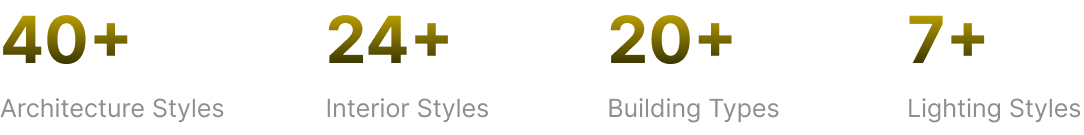
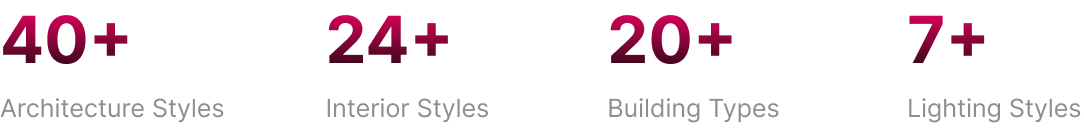
pink

diff --git a/app/page.tsx b/app/page.tsx
@@ -27,7 +27,7 @@ export default function HomePage() {
               <div className="flex justify-center pt-5 space-y-10">
                 <div>
                   <div className="flex justify-center pb-5">
-                    <span className="text-yellow-600 font-semibold">
+                    <span className="text-[#f22e61] font-semibold">
                       AI-POWERED HOME DESIGN TOOL
                     </span>
                   </div>
@@ -48,14 +48,14 @@ export default function HomePage() {
                 <div>
                   {user ? (
                     <Link
-                      className="bg-yellow-600 font-semibold rounded-full text-white px-10 py-3 hover:bg-yellow-700 transition"
+                      className="bg-[#f22e61] font-semibold rounded-full text-white px-10 py-3 hover:bg-purple-700 transition"
                       href={"/render"}
                     >
                       Go to dashboard →
                     </Link>
                   ) : (
                     <button
-                      className="bg-yellow-600 font-semibold rounded-full text-white px-10 py-3 hover:bg-yellow-700 transition"
+                      className="bg-[#f22e61] font-semibold rounded-full text-white px-10 py-3 hover:bg-purple-700 transition"
                       onClick={() => signInWithSupabase()}
                     >
                       Start Designing For Free →
@@ -70,9 +70,8 @@ export default function HomePage() {
               </div>
 
               <div className="flex justify-center">
-{/* <a href='https://affordhunt.com' ><img src='https://svgshare.com/i/xM0.svg' title='Spotlight By AffordHunt' height={100}/></a> */}
+                {/* <a href='https://affordhunt.com' ><img src='https://svgshare.com/i/xM0.svg' title='Spotlight By AffordHunt' height={100}/></a> */}
               </div>
-              
 
               {/* <div className="flex space-x-3 w-full items-center lg:justify-start justify-center">
                 <div>
@@ -115,7 +114,7 @@ export default function HomePage() {
               </div>
               <div className="pt-12">
                 <Link
-                  className="bg-yellow-600 rounded-xl text-white font-medium px-4 py-3 lg:mt-0 sm:mt-10  hover:bg-yellow-700 transition"
+                  className="bg-[#f22e61] rounded-xl text-white font-medium px-4 py-3 lg:mt-0 sm:mt-10  hover:bg-purple-700 transition"
                   href={"/render"}
                 >
                   Build your dream home for free →
@@ -218,7 +217,7 @@ export default function HomePage() {
               <div>
                 <span className="font-semibold lg:text-4xl text-3xl">
                   Revisualize your space in{" "}
-                  <span className="text-yellow-600">100+</span> styles and
+                  <span className="text-[#f22e61]">100+</span> styles and
                   options
                 </span>
               </div>
@@ -234,14 +233,14 @@ export default function HomePage() {
               <div>
                 {user ? (
                   <Link
-                    className="bg-yellow-600 font-semibold rounded-full text-white px-10 py-3 hover:bg-yellow-700 transition"
+                    className="bg-[#f22e61] font-semibold rounded-full text-white px-10 py-3 hover:bg-purple-700 transition"
                     href={"/render"}
                   >
                     Go to the AIHomeRender app →
                   </Link>
                 ) : (
                   <button
-                    className="bg-yellow-600 font-semibold rounded-full text-white px-10 py-3 hover:bg-yellow-700 transition"
+                    className="bg-[#f22e61] font-semibold rounded-full text-white px-10 py-3 hover:bg-purple-700 transition"
                     onClick={() => signInWithSupabase()}
                   >
                     Build your dream home →
@@ -255,7 +254,7 @@ export default function HomePage() {
             <div className="lg:w-1/2 lg:text-left space-y-7">
               <div>
                 <span className="font-semibold lg:text-4xl text-3xl">
-                  <span className="text-yellow-600">Upscale</span> and export
+                  <span className="text-[#f22e61]">Upscale</span> and export
                   your designs in high resolution
                 </span>
               </div>
@@ -269,14 +268,14 @@ export default function HomePage() {
               <div>
                 {user ? (
                   <Link
-                    className="bg-yellow-600 font-semibold rounded-full text-white px-10 py-3 hover:bg-yellow-700 transition"
+                    className="bg-[#f22e61] font-semibold rounded-full text-white px-10 py-3 hover:bg-purple-700 transition"
                     href={"/render"}
                   >
                     Go to the AIHomeRender app →
                   </Link>
                 ) : (
                   <button
-                    className="bg-yellow-600 font-semibold rounded-full text-white px-10 py-3 hover:bg-yellow-700 transition"
+                    className="bg-[#f22e61] font-semibold rounded-full text-white px-10 py-3 hover:bg-purple-700 transition"
                     onClick={() => signInWithSupabase()}
                   >
                     Build your dream home →
@@ -303,20 +302,22 @@ export default function HomePage() {
               </div>
               <div>
                 <span className="text-lg text-stone-600">
-                Our AI-powered platform adapts to diverse scenarios, helping you win more clients effortlessly. Explore limitless possibilities and elevate your design game with AiHomeRenders.
+                  Our AI-powered platform adapts to diverse scenarios, helping
+                  you win more clients effortlessly. Explore limitless
+                  possibilities and elevate your design game with AiHomeRenders.
                 </span>
               </div>
               <div>
                 {user ? (
                   <Link
-                    className="bg-yellow-600 font-semibold rounded-full text-white px-10 py-3 hover:bg-yellow-700 transition"
+                    className="bg-[#f22e61] font-semibold rounded-full text-white px-10 py-3 hover:bg-purple-700 transition"
                     href={"/render"}
                   >
                     Go to the AIHomeRender app →
                   </Link>
                 ) : (
                   <button
-                    className="bg-yellow-600 font-semibold rounded-full text-white px-10 py-3 hover:bg-yellow-700 transition"
+                    className="bg-[#f22e61] font-semibold rounded-full text-white px-10 py-3 hover:bg-purple-700 transition"
                     onClick={() => signInWithSupabase()}
                   >
                     Build your dream home →
@@ -373,7 +374,7 @@ export default function HomePage() {
                   <div className="rounded-xl space-y-3">
                     <div className="">
                       <img
-                        className="h-48 bg-yellow-600 cover rounded-xl w-full object-cover"
+                        className="h-48 bg-[#f22e61] cover rounded-xl w-full object-cover"
                         src={"/img/architects.jpg"}
                         height={300}
                         width={400}
@@ -405,7 +406,7 @@ export default function HomePage() {
                   <div className="rounded-xl space-y-3 ">
                     <div className="">
                       <img
-                        className="h-48 bg-yellow-600 cover rounded-xl w-full object-cover"
+                        className="h-48 bg-[#f22e61] cover rounded-xl w-full object-cover"
                         src={"/img/interior-designers.jpg"}
                         height={300}
                         width={400}
@@ -436,7 +437,7 @@ export default function HomePage() {
                   <div className="rounded-xl space-y-3 ">
                     <div className="">
                       <img
-                        className="h-48 bg-yellow-600 cover rounded-xl w-full object-cover"
+                        className="h-48 bg-[#f22e61] cover rounded-xl w-full object-cover"
                         src={"/img/real-estate-agents.jpg"}
                         height={300}
                         width={400}
@@ -468,7 +469,7 @@ export default function HomePage() {
                   <div className="rounded-xl space-y-3 ">
                     <div className="">
                       <img
-                        className="h-48 bg-yellow-600 cover rounded-xl w-full object-cover"
+                        className="h-48 bg-[#f22e61] cover rounded-xl w-full object-cover"
                         src={"/img/home-lovers.jpg"}
                         height={300}
                         width={400}
@@ -503,14 +504,12 @@ export default function HomePage() {
 
           {/* <div className="pt-12">
             <Link
-              className="bg-yellow-600 rounded-xl text-white font-medium px-4 py-3 lg:mt-0 sm:mt-10  hover:bg-yellow-700 transition"
+              className="bg-[#f22e61] rounded-xl text-white font-medium px-4 py-3 lg:mt-0 sm:mt-10  hover:bg-purple-700 transition"
               href={"/render"}
             >
               Build your dream home for free →
             </Link>
           </div> */}
-
-         
 
           <div className="flex justify-center items-center pt-48 pb-12">
             <div className="space-y-7">
@@ -558,11 +557,11 @@ export default function HomePage() {
               <div className="space-y-10">
                 <span className="text-4xl font-semibold">
                   A better way to design your home,{" "}
-                  <span className="text-yellow-600">you ready?</span>
+                  <span className="text-[#f22e61]">you ready?</span>
                 </span>
                 <div>
                   <button
-                    className="bg-yellow-600 font-semibold rounded-full text-white px-10 py-3 hover:bg-yellow-700 transition"
+                    className="bg-[#f22e61] font-semibold rounded-full text-white px-10 py-3 hover:bg-purple-700 transition"
                     onClick={() => signInWithSupabase()}
                   >
                     Start Designing For Free →

diff --git a/components/Pricing.js b/components/Pricing.js
@@ -30,7 +30,7 @@ function Pricing() {
         {/* <div className="shadow-xl border rounded-xl p-10 space-y-10">
           <div className="space-y-7">
             <div className="text-left">
-              <span className="font-semibold py-1 rounded-full text-yellow-500 text-sm">
+              <span className="font-semibold py-1 rounded-full text-pink-500 text-sm">
                 Hobby
               </span>
             </div>
@@ -90,14 +90,14 @@ function Pricing() {
             <div className="flex justify-center font-semibold">
               {user ? (
                 <Link
-                  className="bg-yellow-600 rounded-full w-full text-white px-4 py-3 hover:bg-yellow-600 transition font-semibold text-left"
+                  className="bg-[#f22e61] rounded-full w-full text-white px-4 py-3 hover:bg-[#f22e61] transition font-semibold text-left"
                   href={"/dream"}
                 >
                   Go to the AIHomeRender app →
                 </Link>
               ) : (
                 <button
-                  className="bg-yellow-600 rounded-full w-full text-white px-4 py-3 hover:bg-yellow-600 transition font-semibold"
+                  className="bg-[#f22e61] rounded-full w-full text-white px-4 py-3 hover:bg-[#f22e61] transition font-semibold"
                   onClick={() => signInWithSupabase()}
                 >
                   Build your dream home →
@@ -128,14 +128,14 @@ function Pricing() {
             <div className="flex justify-center font-semibold">
               {user ? (
                 <Link
-                  className="bg-yellow-600 rounded-full w-full text-white px-4 py-3 hover:bg-yellow-600 transition font-semibold text-center"
+                  className="bg-[#f22e61] rounded-full w-full text-white px-4 py-3 hover:bg-[#f22e61] transition font-semibold text-center"
                   href={"/dream"}
                 >
                   Go to the AIHomeRender app →
                 </Link>
               ) : (
                 <button
-                  className="bg-yellow-600 rounded-full w-full text-white px-4 py-3 hover:bg-yellow-600 transition font-semibold"
+                  className="bg-[#f22e61] rounded-full w-full text-white px-4 py-3 hover:bg-[#f22e61] transition font-semibold"
                   onClick={() => signInWithSupabase()}
                 >
                   Build your dream home →
@@ -190,7 +190,7 @@ function Pricing() {
           </div>
         </div>
 
-        <div className="shadow-xl border-2 border-yellow-600 rounded-xl p-10 space-y-10">
+        <div className="shadow-xl border-2 border-[#f22e61] rounded-xl p-10 space-y-10">
           <div className="space-y-7">
             <div className="text-left">
               <span className=" py-1 rounded-full text-xl">
@@ -212,7 +212,7 @@ function Pricing() {
             </div>
 
             <div className="text-left">
-              <span className="text-yellow-600 font-bold text-sm">
+              <span className="text-[#f22e61] font-bold text-sm">
                 BLACK FRIDAY OFFER - <span className="underline">50% OFF</span>
               </span>
             </div>
@@ -220,7 +220,7 @@ function Pricing() {
 
           <div className="flex justify-center font-semibold">
             <Link
-              className="bg-yellow-600 hover:bg-yellow-500 rounded-full w-full text-white px-4 py-3 hover:bg-yellow-600 transition font-semibold text-center"
+              className="bg-[#f22e61] hover:bg-pink-500 rounded-full w-full text-white px-4 py-3 hover:bg-[#f22e61] transition font-semibold text-center"
               href={
                 "https://aihomerender.lemonsqueezy.com/checkout/buy/855a6c62-21fa-49a0-85f3-5109385a9369"
               }
@@ -306,7 +306,7 @@ function Pricing() {
             </div>
 
             <div className="text-left">
-              <span className="text-yellow-600 font-bold text-sm">
+              <span className="text-[#f22e61] font-bold text-sm">
                 BLACK FRIDAY OFFER - <span className="underline">60% OFF</span>
               </span>
             </div>
@@ -314,7 +314,7 @@ function Pricing() {
 
           <div className="flex justify-center font-semibold">
           <Link
-              className="bg-yellow-600 hover:bg-yellow-500 rounded-full w-full text-white px-4 py-3 hover:bg-yellow-600 transition font-semibold text-center"
+              className="bg-[#f22e61] hover:bg-pink-500 rounded-full w-full text-white px-4 py-3 hover:bg-[#f22e61] transition font-semibold text-center"
               href={
                 "https://aihomerender.lemonsqueezy.com/checkout/buy/1e120fa6-7313-4de8-8b22-42f13b72bebc"
               }

diff --git a/components/SignInButton.js b/components/SignInButton.js
@@ -7,24 +7,24 @@ import { useRouter } from "next/navigation";
 import { createClientComponentClient } from "@supabase/auth-helpers-nextjs";
 import { cookies } from "next/dist/client/components/headers";
 import { useSupabase } from "./supabaseProvider";
-import { DownOutlined, SmileOutlined } from '@ant-design/icons';
+import { DownOutlined, SmileOutlined } from "@ant-design/icons";
 
 function SignInButton() {
   const { supabase, user, signInWithSupabase } = useSupabase();
 
-  console.log(user)
+  console.log(user);
 
   const items = [
     {
-      key: '1',
+      key: "1",
       label: (
-        <Link href="/render" className="" >
+        <Link href="/render" className="">
           Dashboard
         </Link>
       ),
     },
     {
-      key: '2',
+      key: "2",
       label: (
         <button className="text-red-500" onClick={() => handleSignOut()}>
           Log out
@@ -49,10 +49,12 @@ function SignInButton() {
     return (
       <div className="space-x-10 flex items-center">
         <div>
-          <Link className="font-semibold" href={"/pricing"}>Pricing</Link>
+          <Link className="font-semibold" href={"/pricing"}>
+            Pricing
+          </Link>
         </div>
         <button
-          className="text-white font-bold bg-yellow-600 px-5 py-2 rounded-full hover:bg-yellow-500"
+          className="text-white font-bold bg-[#f22e61] px-5 py-2 rounded-full hover:bg-purple-500"
           onClick={signInWithSupabase}
         >
           Build My Home
@@ -63,8 +65,10 @@ function SignInButton() {
   return (
     <div className="space-x-10 flex items-center">
       <div>
-          <Link className="font-semibold" href={"/pricing"}>Pricing</Link>
-        </div>
+        <Link className="font-semibold" href={"/pricing"}>
+          Pricing
+        </Link>
+      </div>
       {user && (
         <Dropdown menu={{ items }}>
           <div className="cursor-pointer flex space-x-2 items-center">

diff --git a/app/render/page.tsx b/app/render/page.tsx
@@ -234,7 +234,7 @@ function page() {
   return (
     <div className="m-auto">
       {packageType !== "free" ? null : (
-        <div className="bg-yellow-600 text-center text-white py-3">
+        <div className="bg-[#f22e61] text-center text-white py-3">
           <span>
             You are currently on the Free Plan.{" "}
             <Link
